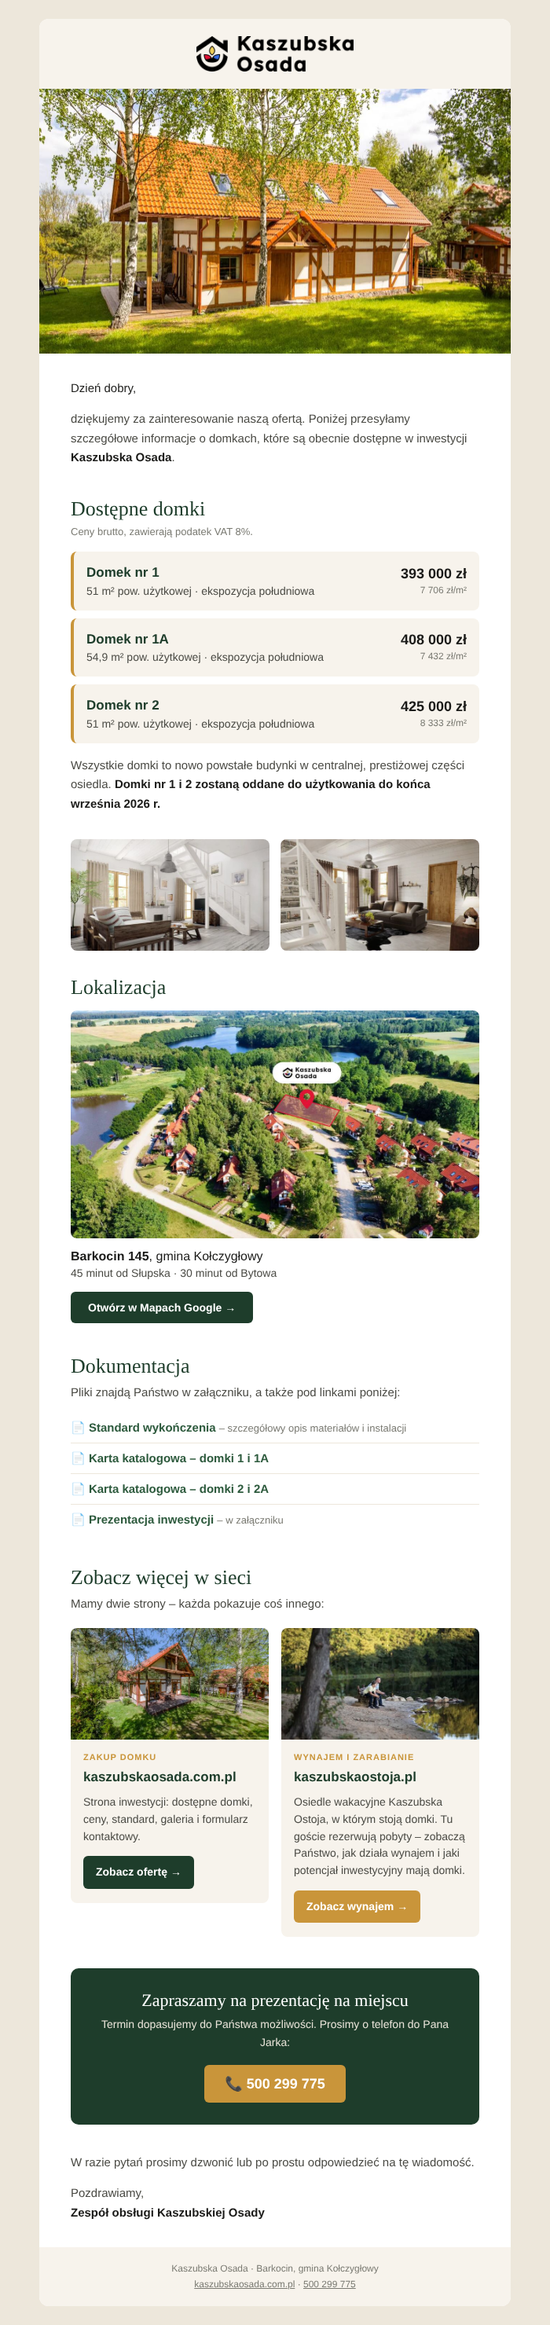
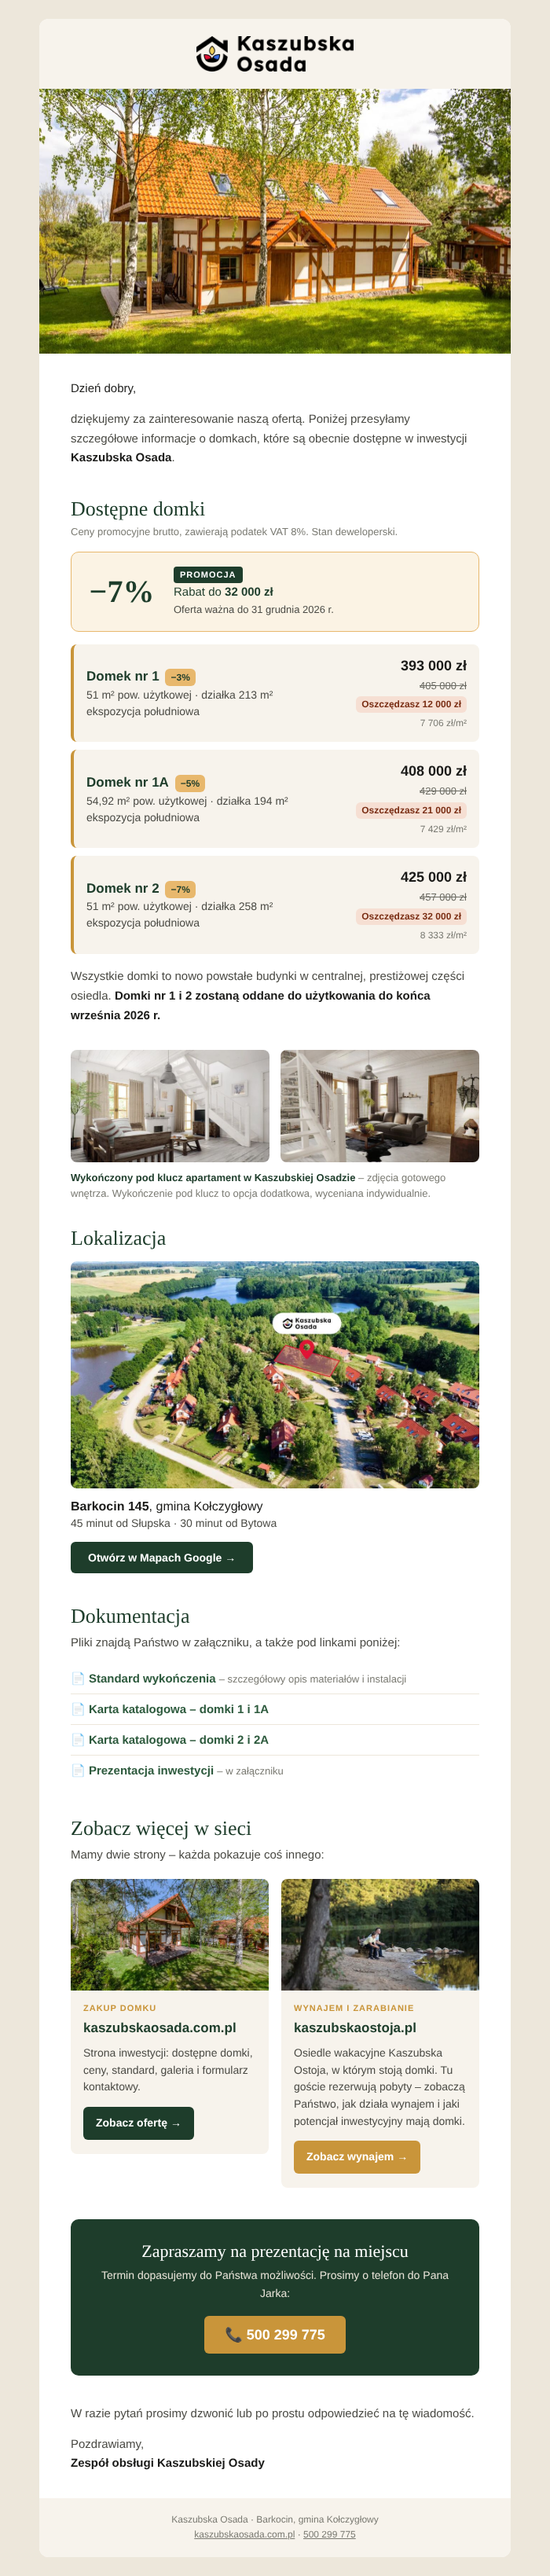
Mail Brevo: promocja jak na stronie, podpis zdjęć wykończenia pod klucz
Claude-Session: https://claude.ai/code/session_018wgySHbbPW5MShoySnECmj

diff --git a/marketing/brevo-oferta.html b/marketing/brevo-oferta.html
@@ -22,6 +22,8 @@
     .col { display:block !important; width:100% !important; padding:0 0 14px 0 !important; }
     .col img { width:100% !important; height:auto !important; }
     .h1 { font-size:24px !important; }
+    .cl, .cr { display:block !important; width:auto !important; text-align:left !important; }
+    .cr { padding-top:0 !important; }
   }
 </style>
 </head>
@@ -52,16 +54,30 @@
   <!-- Dostępne domki -->
   <tr><td class="px" style="padding:16px 40px 8px;">
     <h2 class="h1" style="margin:0 0 6px;font-family:Georgia,'Times New Roman',serif;font-size:26px;font-weight:normal;color:#1e3d2b;">Dostępne domki</h2>
-    <p style="margin:0 0 18px;font-size:13px;color:#7a7a72;">Ceny brutto, zawierają podatek VAT 8%.</p>
+    <p style="margin:0 0 18px;font-size:13px;color:#7a7a72;">Ceny promocyjne brutto, zawierają podatek VAT 8%. Stan deweloperski.</p>
+
+    <table role="presentation" width="100%" cellpadding="0" cellspacing="0" border="0" style="margin-bottom:16px;background:#fbf3e4;border:1px solid #e8b86d;border-radius:10px;">
+      <tr>
+        <td width="96" align="center" valign="middle" style="padding:16px 0 16px 16px;font-family:Georgia,'Times New Roman',serif;font-size:40px;font-weight:bold;line-height:1;color:#1e3d2b;">−7%</td>
+        <td valign="middle" style="padding:16px 18px;font-size:15px;line-height:1.5;color:#1e3d2b;">
+          <span style="display:inline-block;padding:2px 8px;background:#1e3d2b;border-radius:4px;font-size:11px;font-weight:bold;letter-spacing:1px;text-transform:uppercase;color:#ffffff;">Promocja</span><br>
+          Rabat do <strong>32 000 zł</strong><br>
+          <span style="font-size:13px;color:#4a4a44;">Oferta ważna do 31 grudnia 2026&nbsp;r.</span>
+        </td>
+      </tr>
+    </table>
 
     <table role="presentation" width="100%" cellpadding="0" cellspacing="0" border="0" style="margin-bottom:10px;background:#f7f3ec;border-left:4px solid #c9953a;border-radius:8px;">
       <tr>
-        <td style="padding:14px 16px;font-size:14px;color:#4a4a44;line-height:1.5;">
-          <strong style="font-size:17px;color:#1e3d2b;">Domek nr 1</strong><br>
-          51 m² pow. użytkowej · ekspozycja południowa
+        <td class="cl" style="padding:14px 16px;font-size:14px;color:#4a4a44;line-height:1.5;">
+          <strong style="font-size:17px;color:#1e3d2b;">Domek nr 1</strong> <span style="display:inline-block;margin-left:4px;padding:2px 7px;background:#e8b86d;border-radius:6px;font-size:12px;font-weight:bold;color:#1e3d2b;">−3%</span><br>
+          51 m² pow. użytkowej · działka 213 m²<br>
+          ekspozycja południowa
         </td>
-        <td align="right" style="padding:14px 16px;white-space:nowrap;">
+        <td class="cr" align="right" style="padding:14px 16px;white-space:nowrap;line-height:1.45;">
           <strong style="font-size:18px;color:#1a1a18;">393 000 zł</strong><br>
+          <s style="font-size:13px;color:#6b6b63;">405 000 zł</s><br>
+          <span style="display:inline-block;margin-top:3px;padding:2px 7px;background:#f6dfd3;border-radius:6px;font-size:12px;font-weight:bold;color:#7a2e14;">Oszczędzasz 12 000 zł</span><br>
           <span style="font-size:12px;color:#7a7a72;">7 706 zł/m²</span>
         </td>
       </tr>
@@ -69,25 +85,31 @@
 
     <table role="presentation" width="100%" cellpadding="0" cellspacing="0" border="0" style="margin-bottom:10px;background:#f7f3ec;border-left:4px solid #c9953a;border-radius:8px;">
       <tr>
-        <td style="padding:14px 16px;font-size:14px;color:#4a4a44;line-height:1.5;">
-          <strong style="font-size:17px;color:#1e3d2b;">Domek nr 1A</strong><br>
-          54,9 m² pow. użytkowej · ekspozycja południowa
+        <td class="cl" style="padding:14px 16px;font-size:14px;color:#4a4a44;line-height:1.5;">
+          <strong style="font-size:17px;color:#1e3d2b;">Domek nr 1A</strong> <span style="display:inline-block;margin-left:4px;padding:2px 7px;background:#e8b86d;border-radius:6px;font-size:12px;font-weight:bold;color:#1e3d2b;">−5%</span><br>
+          54,92 m² pow. użytkowej · działka 194 m²<br>
+          ekspozycja południowa
         </td>
-        <td align="right" style="padding:14px 16px;white-space:nowrap;">
+        <td class="cr" align="right" style="padding:14px 16px;white-space:nowrap;line-height:1.45;">
           <strong style="font-size:18px;color:#1a1a18;">408 000 zł</strong><br>
-          <span style="font-size:12px;color:#7a7a72;">7 432 zł/m²</span>
+          <s style="font-size:13px;color:#6b6b63;">429 000 zł</s><br>
+          <span style="display:inline-block;margin-top:3px;padding:2px 7px;background:#f6dfd3;border-radius:6px;font-size:12px;font-weight:bold;color:#7a2e14;">Oszczędzasz 21 000 zł</span><br>
+          <span style="font-size:12px;color:#7a7a72;">7 429 zł/m²</span>
         </td>
       </tr>
     </table>
 
     <table role="presentation" width="100%" cellpadding="0" cellspacing="0" border="0" style="margin-bottom:10px;background:#f7f3ec;border-left:4px solid #c9953a;border-radius:8px;">
       <tr>
-        <td style="padding:14px 16px;font-size:14px;color:#4a4a44;line-height:1.5;">
-          <strong style="font-size:17px;color:#1e3d2b;">Domek nr 2</strong><br>
-          51 m² pow. użytkowej · ekspozycja południowa
+        <td class="cl" style="padding:14px 16px;font-size:14px;color:#4a4a44;line-height:1.5;">
+          <strong style="font-size:17px;color:#1e3d2b;">Domek nr 2</strong> <span style="display:inline-block;margin-left:4px;padding:2px 7px;background:#e8b86d;border-radius:6px;font-size:12px;font-weight:bold;color:#1e3d2b;">−7%</span><br>
+          51 m² pow. użytkowej · działka 258 m²<br>
+          ekspozycja południowa
         </td>
-        <td align="right" style="padding:14px 16px;white-space:nowrap;">
+        <td class="cr" align="right" style="padding:14px 16px;white-space:nowrap;line-height:1.45;">
           <strong style="font-size:18px;color:#1a1a18;">425 000 zł</strong><br>
+          <s style="font-size:13px;color:#6b6b63;">457 000 zł</s><br>
+          <span style="display:inline-block;margin-top:3px;padding:2px 7px;background:#f6dfd3;border-radius:6px;font-size:12px;font-weight:bold;color:#7a2e14;">Oszczędzasz 32 000 zł</span><br>
           <span style="font-size:12px;color:#7a7a72;">8 333 zł/m²</span>
         </td>
       </tr>
@@ -100,8 +122,11 @@
   <tr><td class="px" style="padding:24px 40px 4px;">
     <table role="presentation" width="100%" cellpadding="0" cellspacing="0" border="0">
       <tr>
-        <td class="col" width="50%" style="padding-right:7px;"><img src="https://kaszubskaosada.com.pl/zdjecia/mail/interior_1.jpg" width="253" alt="Salon z antresolą" style="width:100%;height:auto;border-radius:8px;"></td>
-        <td class="col" width="50%" style="padding-left:7px;"><img src="https://kaszubskaosada.com.pl/zdjecia/mail/interior_2.jpg" width="253" alt="Strefa dzienna" style="width:100%;height:auto;border-radius:8px;"></td>
+        <td class="col" width="50%" style="padding-right:7px;"><img src="https://kaszubskaosada.com.pl/zdjecia/mail/interior_1.jpg" width="253" alt="Wykończony pod klucz apartament – salon" style="width:100%;height:auto;border-radius:8px;"></td>
+        <td class="col" width="50%" style="padding-left:7px;"><img src="https://kaszubskaosada.com.pl/zdjecia/mail/interior_2.jpg" width="253" alt="Wykończony pod klucz apartament – strefa dzienna" style="width:100%;height:auto;border-radius:8px;"></td>
+      </tr>
+      <tr>
+        <td colspan="2" style="padding-top:10px;font-size:13px;line-height:1.55;color:#7a7a72;"><strong style="color:#1e3d2b;">Wykończony pod klucz apartament w&nbsp;Kaszubskiej Osadzie</strong> – zdjęcia gotowego wnętrza. Wykończenie pod klucz to opcja dodatkowa, wyceniana indywidualnie.</td>
       </tr>
     </table>
   </td></tr>
